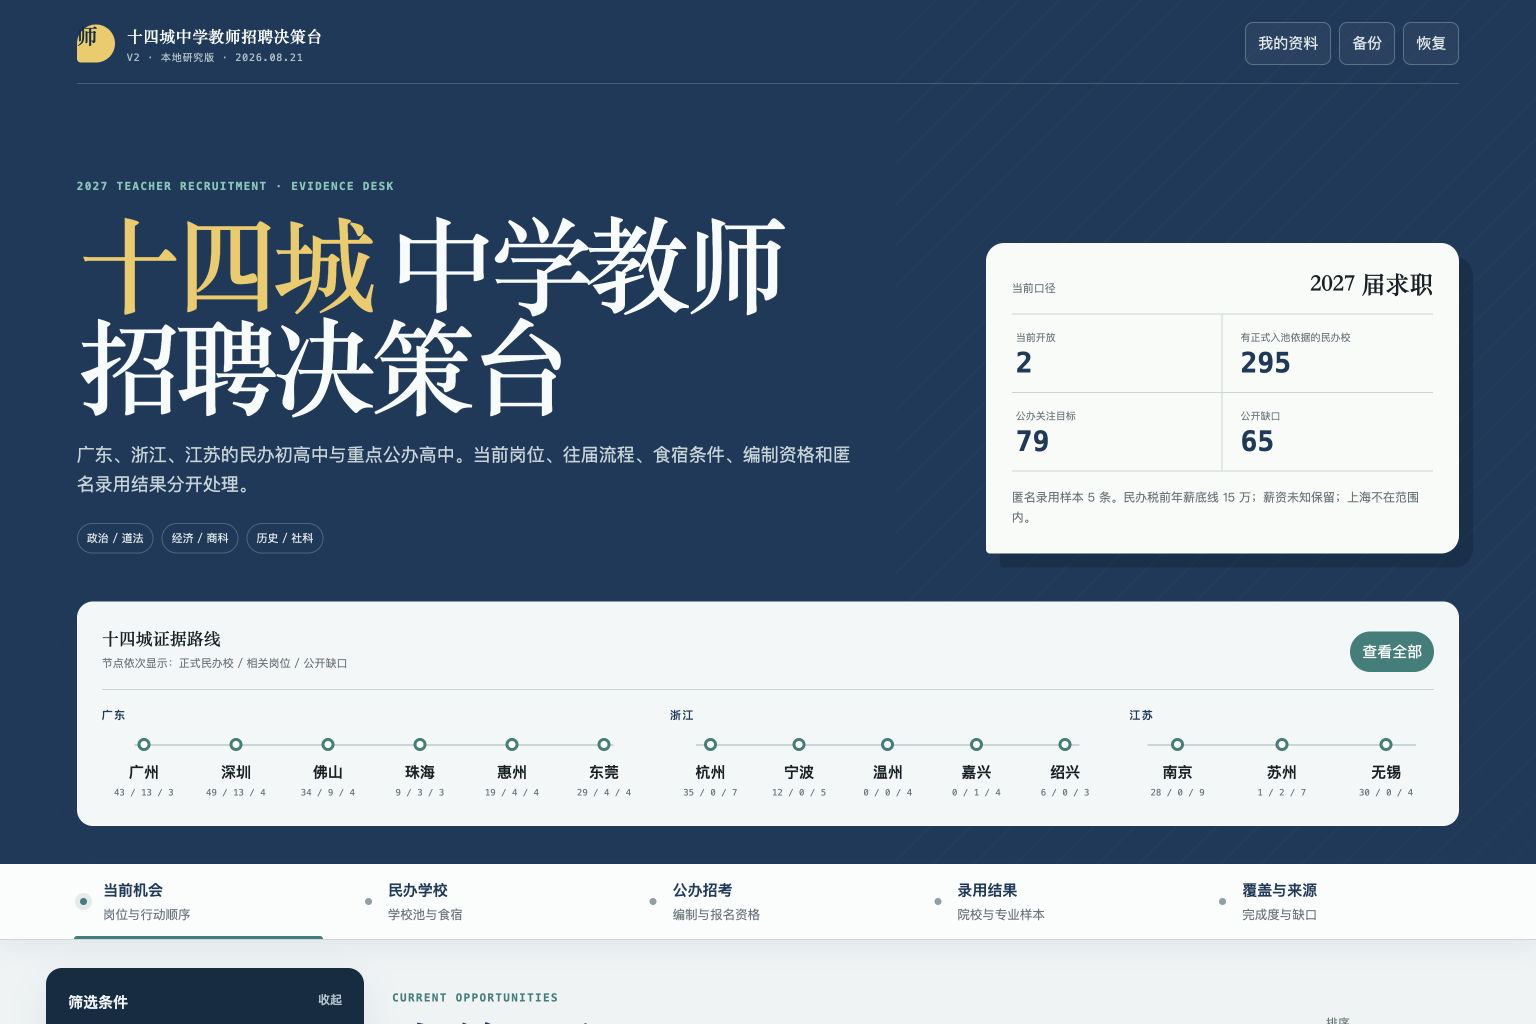
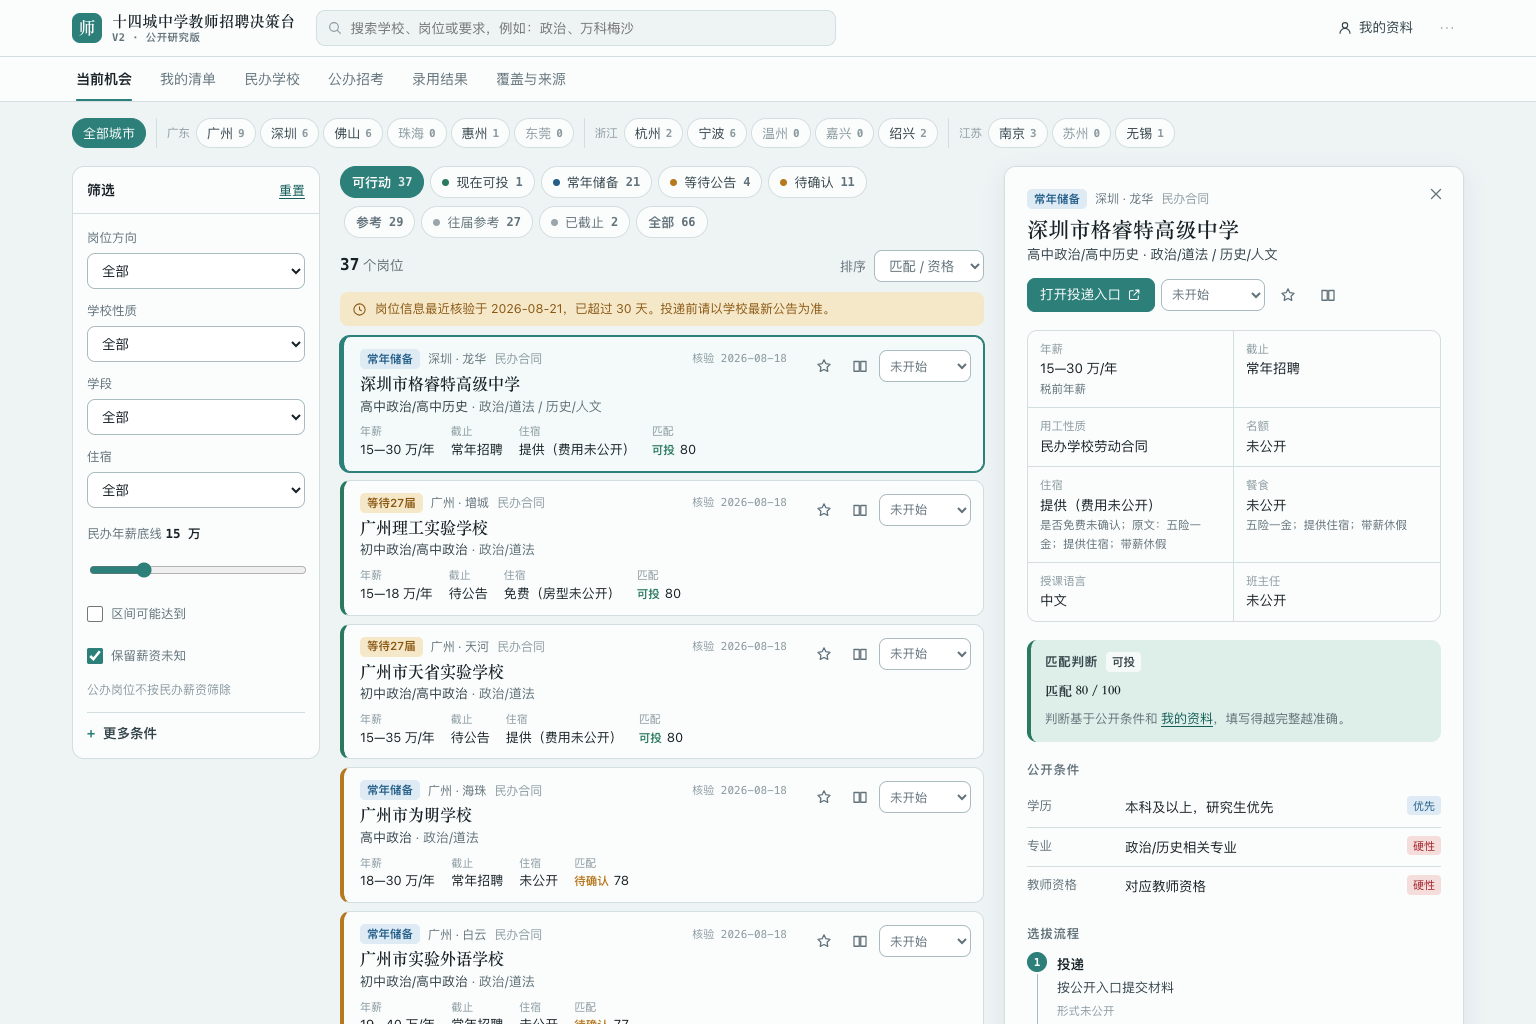
docs: refresh interface preview and view list
Replace the social preview with the redesigned layout, describe the six
views, and list plain CSS in the tech stack since the site does not use
Tailwind.

diff --git a/README.md b/README.md
@@ -9,11 +9,11 @@
 ## 作品概览
 
 - 14 个城市、80 条岗位记录、384 所正式学校
-- 当前机会、民办学校、公办招考、录用结果、覆盖与来源五个视图
+- 当前机会、我的清单、民办学校、公办招考、录用结果、覆盖与来源六个视图
 - 字段级来源、招聘周期、访问状态和证据等级
 - 分阶段研究导入：暂存资料必须通过结构校验和显式允许清单，才会进入正式数据
 - 收藏、比较、个人备注、材料清单、CSV 导出和本地备份
-- 技术栈：React 19 · TypeScript · Vite · Tailwind CSS · Cloudflare Pages
+- 技术栈：React 19 · TypeScript · Vite · 原生 CSS · Cloudflare Pages
 
 ## 我的角色与 AI 协作
 
@@ -68,7 +68,7 @@ npm run reports:v2   # 从正式数据生成 Markdown 清单与覆盖报告
 
 ## 页面功能
 
-- 五视图：当前机会、民办学校、公办招考、录用结果、覆盖与来源
+- 六视图：当前机会（状态条兼作筛选，默认只列可行动岗位，往届与已截止归入参考）、我的清单（收藏与跟进岗位按投递进度分组）、民办学校、公办招考、录用结果、覆盖与来源
 - 筛选：省份、城市、区县、性质、学段、方向、状态、薪资、住宿、餐食、授课语言、教师资格、经验、选拔流程、匹配风险和关键词
 - 民办默认隐藏年薪上限仍低于15万元的岗位，薪资未知保留；公办不使用民办薪资分淘汰
 - 收藏、跟进状态、个人备注、最多4项比较、CSV、投递待办、备份恢复
